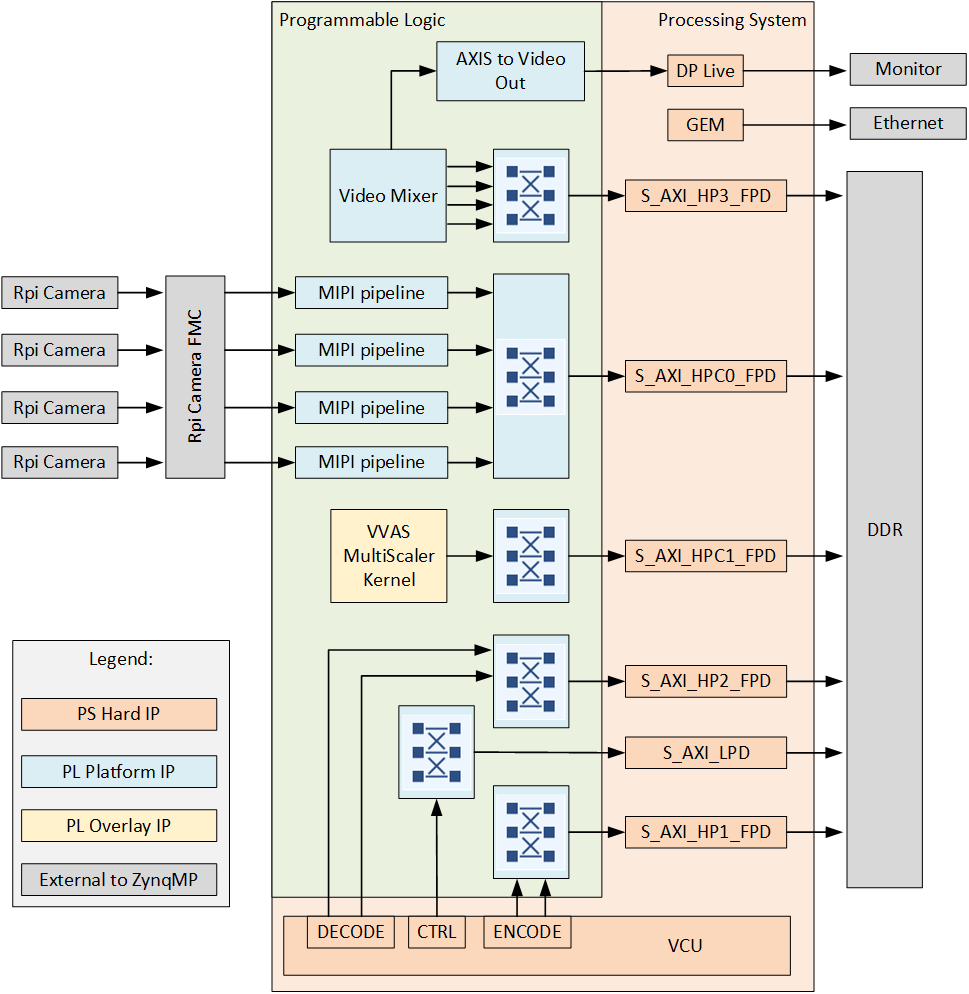
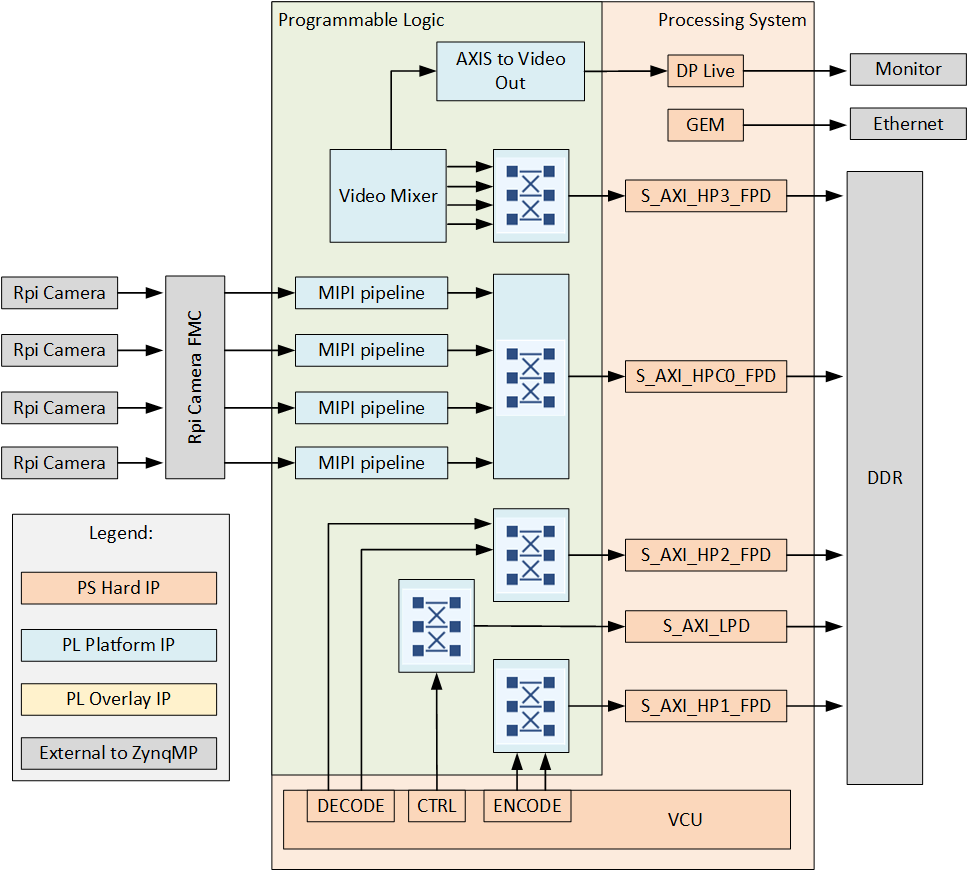
* fixed pynqzu bsp * removed ila from vivado designs * set gpio defaults to ensure rpi cameras are enabled * updated docs

diff --git a/docs/source/description.md b/docs/source/description.md
@@ -20,9 +20,9 @@ boards. The repository contains all necessary scripts and code to build these de
     {% if designs_in_group | length > 0 %}
 ### {{ group.name }} platforms
 
-| Target board        | FMC Slot Used | Cameras | VCU | Accelerator |
-|---------------------|---------------|---------|-----|-----|
-{% for design in data.designs %}{% if design.group == group.label and design.publish %}| [{{ design.board }}]({{ design.link }}) | {{ design.connector }} | {{ design.cams | length }}x | {% if design.vcu %} ✅ {% else %} ❌ {% endif %} | {% if design.accel %} ✅ {% else %} ❌ {% endif %} |
+| Target board        | FMC Slot Used | Cameras | VCU |
+|---------------------|---------------|---------|-----|
+{% for design in data.designs %}{% if design.group == group.label and design.publish %}| [{{ design.board }}]({{ design.link }}) | {{ design.connector }} | {{ design.cams | length }}x | {% if design.vcu %} ✅ {% else %} ❌ {% endif %} |
 {% endif %}{% endfor %}
 {% endif %}
 {% endfor %}
@@ -35,17 +35,16 @@ below outlines the corresponding applications available in each environment:
 
 | Environment      | Available Applications  |
 |------------------|-------------------------|
-| PetaLinux        | Built-in Linux commands<br>Additional tools: ethtool, phytool, iperf3 |
+| PetaLinux        | Built-in Linux commands<br>Additional tools: [GStreamer] |
 
 ## Architecture
 
 The hardware design for these projects is built in Vivado and is composed of IP that implement the
-MIPI interface with the cameras, VCU and image processing hardware accelerator as well as a display pipeline.
+MIPI interface with the cameras and VCU as well as a display pipeline.
 The main elements are:
 
 * 4x Raspberry Pi cameras each with an independent MIPI capture pipeline that writes to the DDR
 * Video Mixer based display pipeline that writes to the DisplayPort live interface of the ZynqMP
-* Image processing accelerator ([VVAS MultiScaler])
 * Video Codec Unit ([VCU])
 
 The block diagram below illustrates the design from the top level.
@@ -58,6 +57,7 @@ There are four main capture/input pipelines in this design, one for each of the 
 The capture pipelines are composed of the following IP, implemented in the PL of the Zynq UltraScale+:
 
 * [MIPI CSI-2 Receiver Subsystem IP](https://docs.xilinx.com/r/en-US/pg232-mipi-csi2-rx)
+* [AXI4-Stream Data FIFO](https://docs.amd.com/r/en-US/pg085-axi4stream-infrastructure/AXI4-Stream-Data-FIFO)
 * [ISP Pipeline of the Vitis Libraries](https://github.com/Xilinx/Vitis_Libraries/tree/main/vision/L3/examples/isppipeline)
 * [Video Processing Subsystem IP](https://docs.xilinx.com/r/en-US/pg231-v-proc-ss)
 * [Frame Buffer Write IP](https://docs.xilinx.com/r/en-US/pg278-v-frmbuf)
@@ -86,16 +86,10 @@ format, to satisfy the DisplayPort live interface.
 
 The end-to-end pipeline shows an example of the flow of image frames through the entire system, from source to sink.
 In the diagram, the image resolutions and pixel formats are shown at each interface between the image processing
-blocks. The resolution and pixel format can be dynamically changed at the output of the RPi camera, the scaler 
-(Video Processing Subsystem IP) and the VVAS accelerator.
+blocks. The resolution and pixel format can be dynamically changed at the output of the RPi camera and the scaler 
+(Video Processing Subsystem IP).
 
 ![End-to-end pipeline](images/rpi-camera-fmc-end-to-end.png)
-
-### VVAS accelerator
-
-To enable hardware accelerated image processing in this design, the [VVAS MultiScaler] kernel is included. The 
-accelerator can be used for resizing, color space conversion and more. All of the accelerator features are implemented
-through a set of [GStreamer plug-ins] from the VVAS packages that are built into the PetaLinux projects.
 
 ### Video Codec Unit
 

diff --git a/docs/source/build_instructions.md b/docs/source/build_instructions.md
@@ -38,9 +38,9 @@ the Video Codec Unit and which do not.
     {% if designs_in_group | length > 0 %}
 ### {{ group.name }} designs
 
-| Target board        | Target design     | Cameras | FMC Slot    | VCU | Accelerator | Vivado<br> Edition |
-|---------------------|-------------------|---------|-------------|-----|-----|-----|
-{% for design in data.designs %}{% if design.group == group.label and design.publish %}| [{{ design.board }}]({{ design.link }}) | `{{ design.label }}` | {{ design.cams | length }} | {{ design.connector }} | {% if design.vcu %} ✅ {% else %} ❌ {% endif %} | {% if design.accel %} ✅ {% else %} ❌ {% endif %} | {{ "Enterprise" if design.license else "Standard 🆓" }} |
+| Target board        | Target design     | Cameras | FMC Slot    | VCU | Vivado<br> Edition |
+|---------------------|-------------------|---------|-------------|-----|-----|
+{% for design in data.designs %}{% if design.group == group.label and design.publish %}| [{{ design.board }}]({{ design.link }}) | `{{ design.label }}` | {{ design.cams | length }} | {{ design.connector }} | {% if design.vcu %} ✅ {% else %} ❌ {% endif %} | {{ "Enterprise" if design.license else "Standard 🆓" }} |
 {% endif %}{% endfor %}
 {% endif %}
 {% endfor %}

diff --git a/docs/source/supported_carriers.md b/docs/source/supported_carriers.md
@@ -74,3 +74,6 @@ functional workaround that we have found for these two target boards.
 [compatibility list]: https://camerafmc.com/docs/rpi-camera-fmc/compatibility/
 [AMD Xilinx MIPI CSI Controller Subsystem IP]: https://docs.xilinx.com/r/en-US/pg202-mipi-dphy
 
+[ZCU102]: https://www.xilinx.com/zcu102
+[Genesys-ZU]: https://digilent.com/shop/genesys-zu-zynq-ultrascale-mpsoc-development-board
+[PYNQ-ZU]: https://www.amd.com/en/corporate/university-program/aup-boards/pynq-zu.html

diff --git a/docs/source/revision_history.md b/docs/source/revision_history.md
@@ -1,5 +1,11 @@
 # Revision History
 
+## 2024.1 Changes
+
+* Removed VVAS image processing accelerator from the design - no current support for VVAS in version
+  2024.1.
+* Added AXI4-Streaming Data FIFO to MIPI video pipes, between MIPI CSI2 RX and ISP Pipeline IPs
+
 ## 2022.1 Changes
 
 * Added Makefiles to improve the build experience for Linux users
